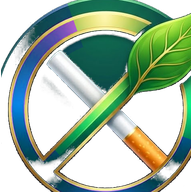
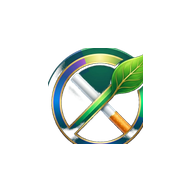
feat: largeIcon %25 padding + ic_notification alias (vc83)

diff --git a/modules/bg-status/android/src/main/java/expo/modules/bgstatus/BgStatusModule.kt b/modules/bg-status/android/src/main/java/expo/modules/bgstatus/BgStatusModule.kt
@@ -52,9 +52,14 @@ class BgStatusModule : Module() {
       val now = System.currentTimeMillis()
       val useChronometer = endAtMs > now
 
-      val smallIconId = context.resources.getIdentifier(
-        "notification_icon", "drawable", context.packageName
+      var smallIconId = context.resources.getIdentifier(
+        "ic_notification", "drawable", context.packageName
       )
+      if (smallIconId == 0) {
+        smallIconId = context.resources.getIdentifier(
+          "notification_icon", "drawable", context.packageName
+        )
+      }
       val builder = NotificationCompat.Builder(context, channelId)
         .setSmallIcon(if (smallIconId != 0) smallIconId else android.R.drawable.ic_lock_idle_alarm)
         .setColor(Color.parseColor("#1E62D0"))

diff --git a/plugins/withNotificationIcon.js b/plugins/withNotificationIcon.js
@@ -82,6 +82,13 @@ module.exports = function withNotificationIcon(config) {
             sz,
             sharp,
           );
+          // Notifee tarzı resource adıyla da erişilebilsin (alias).
+          await writePng(
+            srcSmall,
+            path.join(dir, 'ic_notification.png'),
+            sz,
+            sharp,
+          );
         }
       }
 
